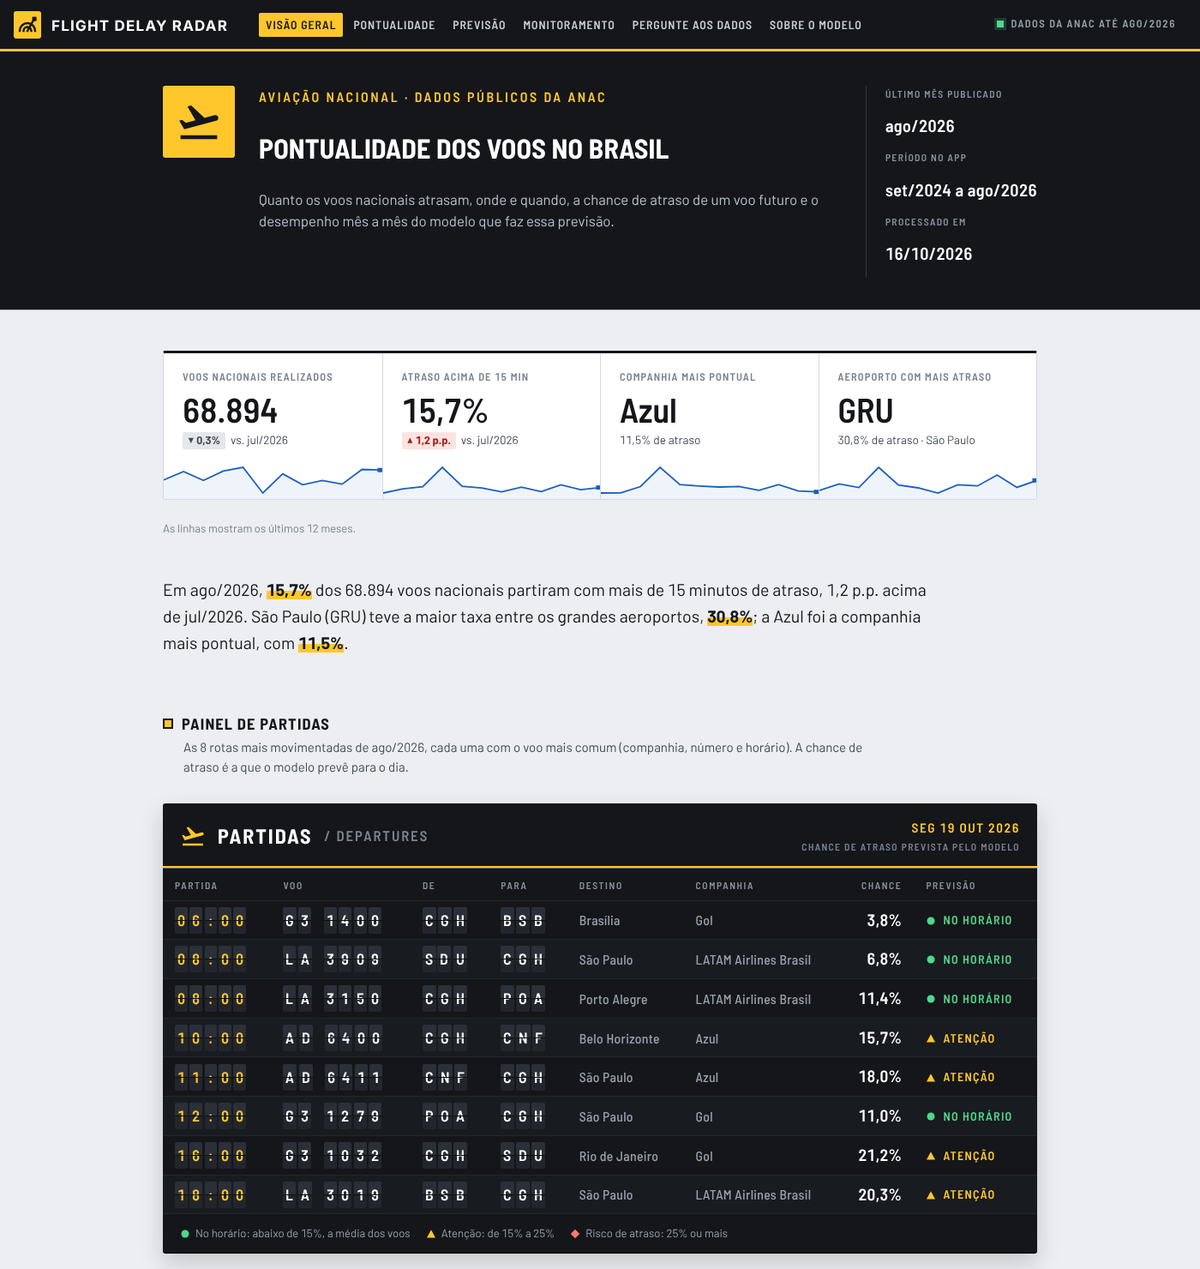
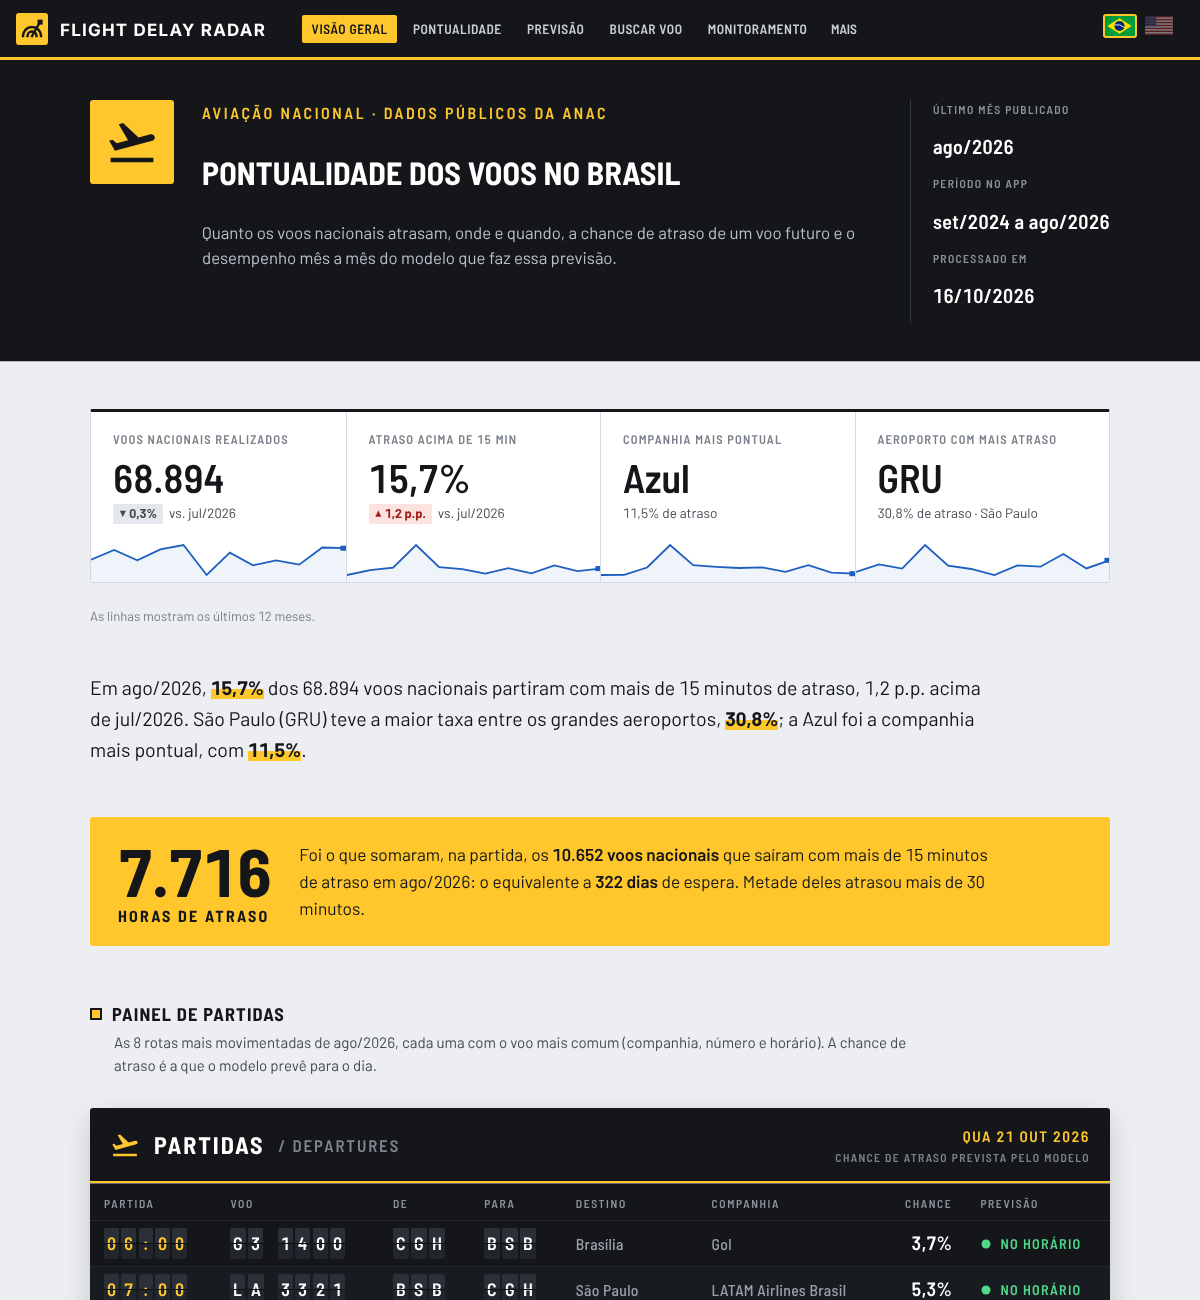
README: demonstração animada e prints do app atual

diff --git a/README.md b/README.md
@@ -12,7 +12,7 @@ mês a mês com regra de retreino e um assistente que responde perguntas em SQL.
 
 **[Abrir o app](https://flight-delay-radar.streamlit.app)** (em português ou inglês: botão PT | EN no topo)
 
-![Visão geral do app: indicadores do mês e o painel de partidas com a chance prevista de atraso](docs/img/app_inicio.png)
+![Demonstração de 28 segundos: o painel de partidas, a previsão de um voo, a busca pelo número do voo, o assistente e a versão em inglês](docs/img/demo.gif)
 
 ## O que o app mostra
 
@@ -28,6 +28,7 @@ mês a mês com regra de retreino e um assistente que responde perguntas em SQL.
 
 <table>
 <tr>
+<td><img src="docs/img/app_inicio.png" alt="Visão geral: indicadores do mês, horas de atraso e o painel de partidas"></td>
 <td><img src="docs/img/app_previsao.png" alt="Página de previsão com o cartão de embarque e os fatores"></td>
 <td><img src="docs/img/app_monitoramento.png" alt="Página de monitoramento com a linha do tempo dos retreinos"></td>
 </tr>

diff --git a/README.en.md b/README.en.md
@@ -13,7 +13,7 @@ answers questions in SQL.
 
 **[Open the app in English](https://flight-delay-radar.streamlit.app/?lang=en)** (PT | EN switch at the top)
 
-![App overview: the month's indicators and the departures board with the predicted chance of delay](docs/img/app_inicio.png)
+![28-second demo: the departures board, a flight prediction, the flight number lookup, the assistant and the English version](docs/img/demo.gif)
 
 ## What the app shows
 
@@ -29,6 +29,7 @@ answers questions in SQL.
 
 <table>
 <tr>
+<td><img src="docs/img/app_inicio.png" alt="Overview: the month's indicators, hours of delay and the departures board"></td>
 <td><img src="docs/img/app_previsao.png" alt="Prediction page with the boarding pass and the factors"></td>
 <td><img src="docs/img/app_monitoramento.png" alt="Monitoring page with the retraining timeline"></td>
 </tr>

diff --git a/docs/deploy.md b/docs/deploy.md
@@ -48,7 +48,8 @@ Antes: o repositório precisa estar público, com `data/marts/` versionado e o C
 
 ### Conferir depois de publicar
 
-- As 6 páginas abrem sem mensagem de erro.
+- As 7 páginas abrem sem mensagem de erro, em português e em inglês (bandeiras no topo ou
+  `?lang=en` no endereço).
 - A página Previsão mostra uma probabilidade e os fatores.
 - Em "Pergunte aos dados", o aviso de modo de demonstração some quando a chave está nos secrets.
 - Para trocar ou remover a chave: no painel do app, **Settings > Secrets**.
